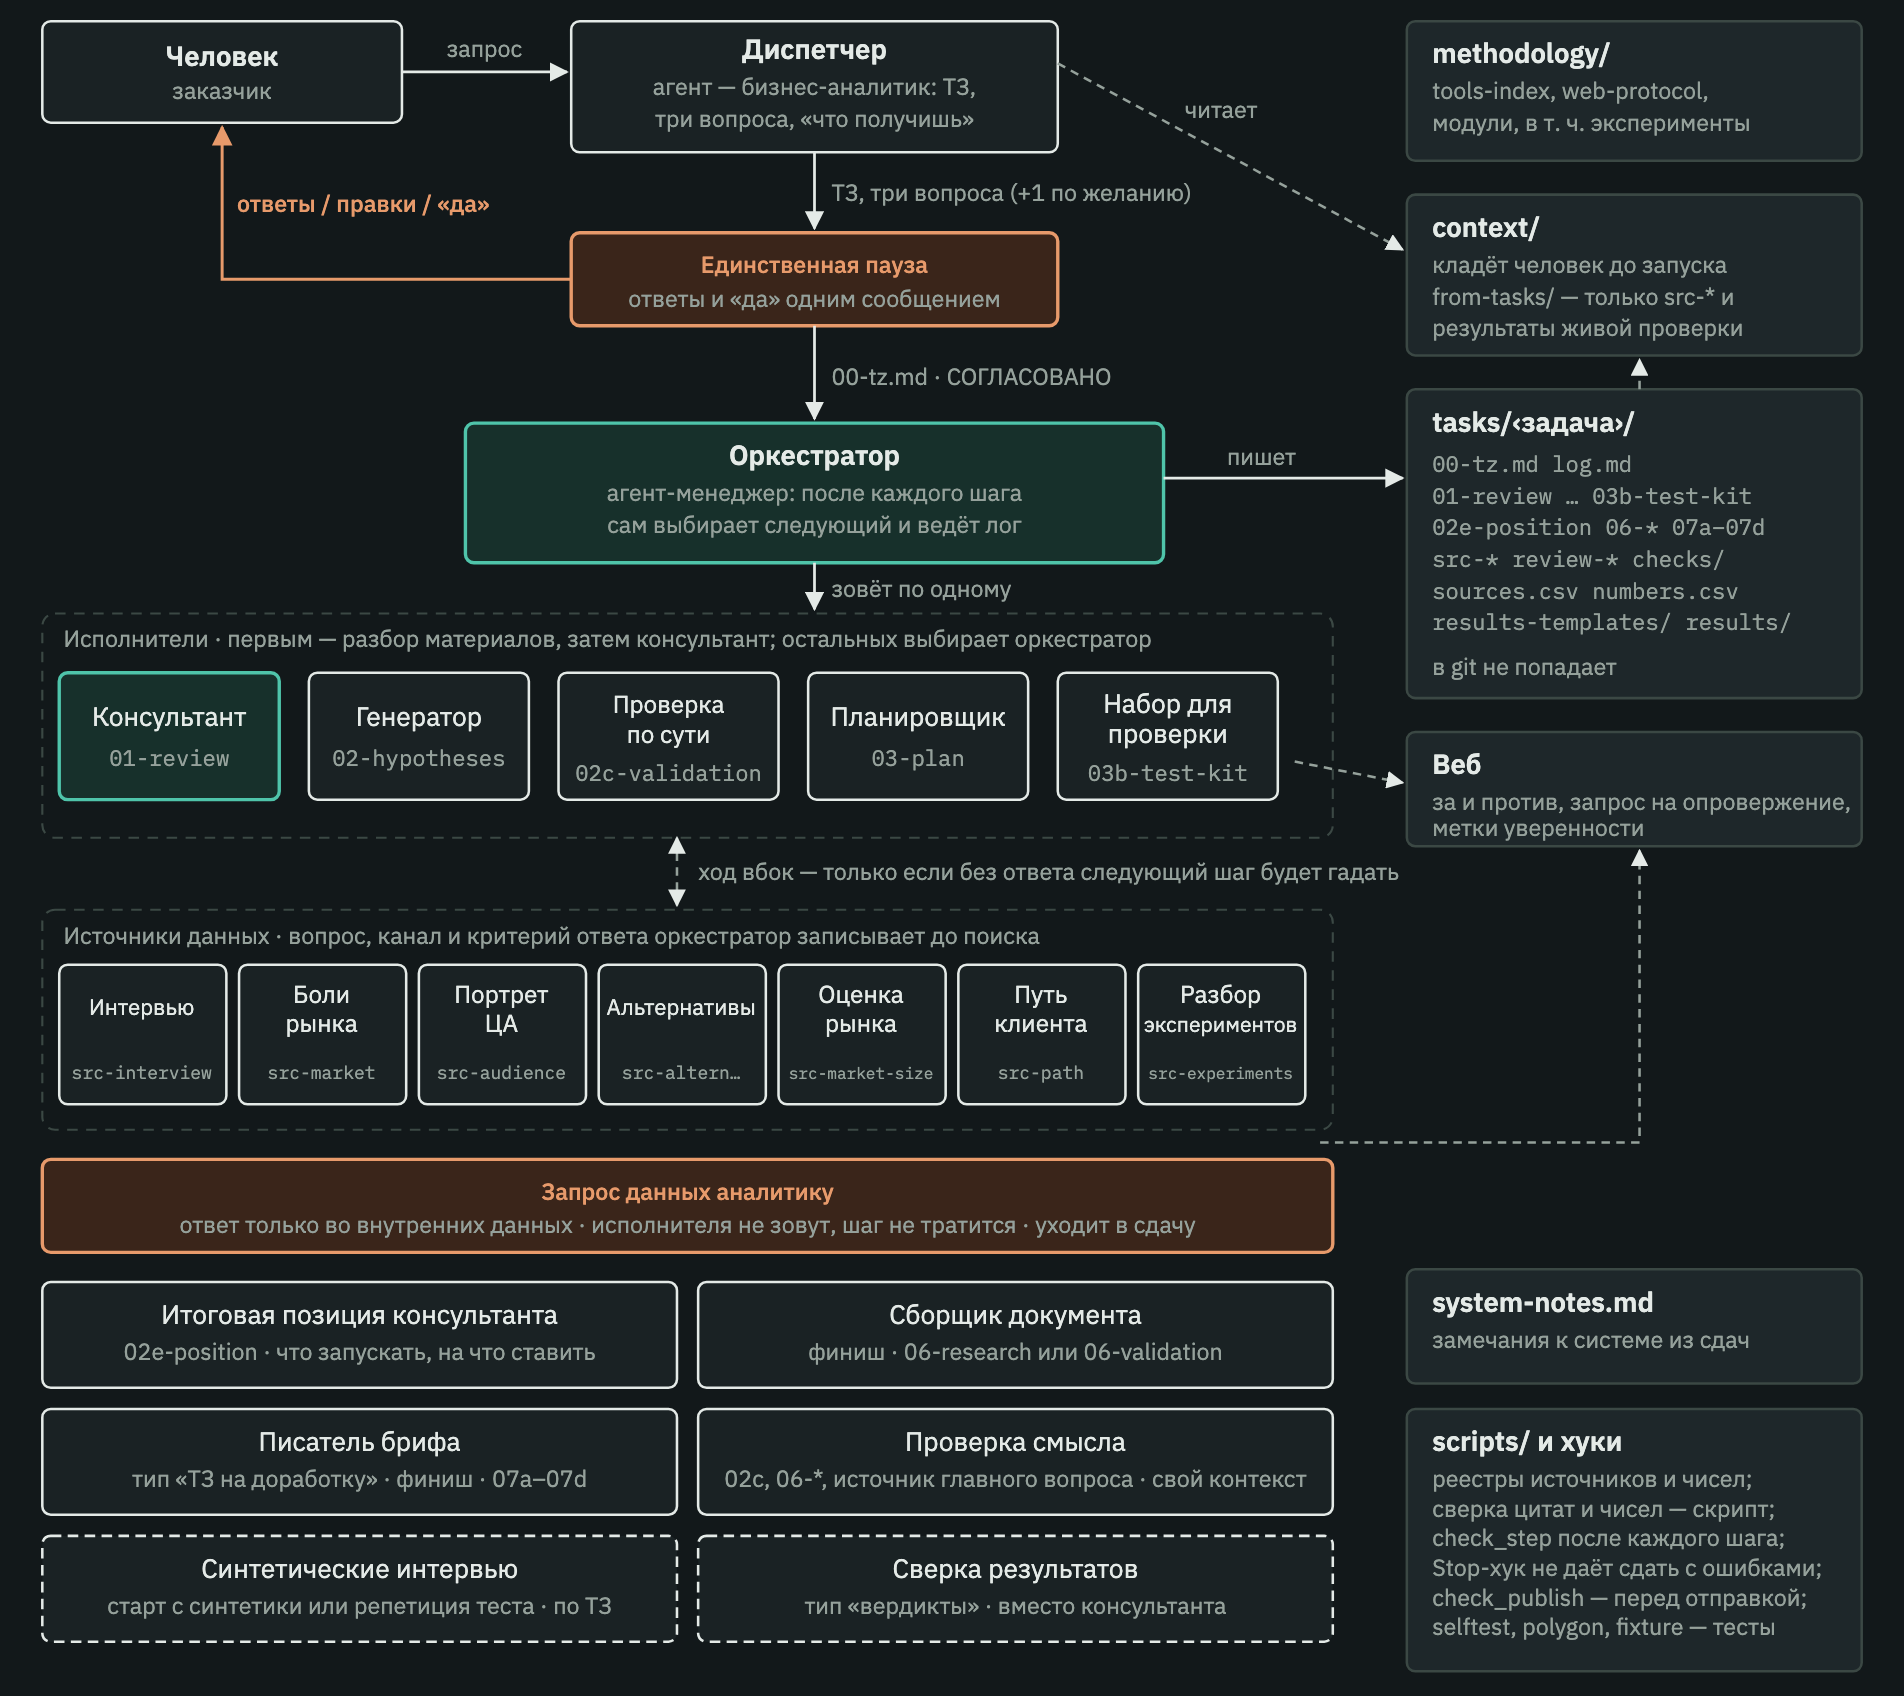
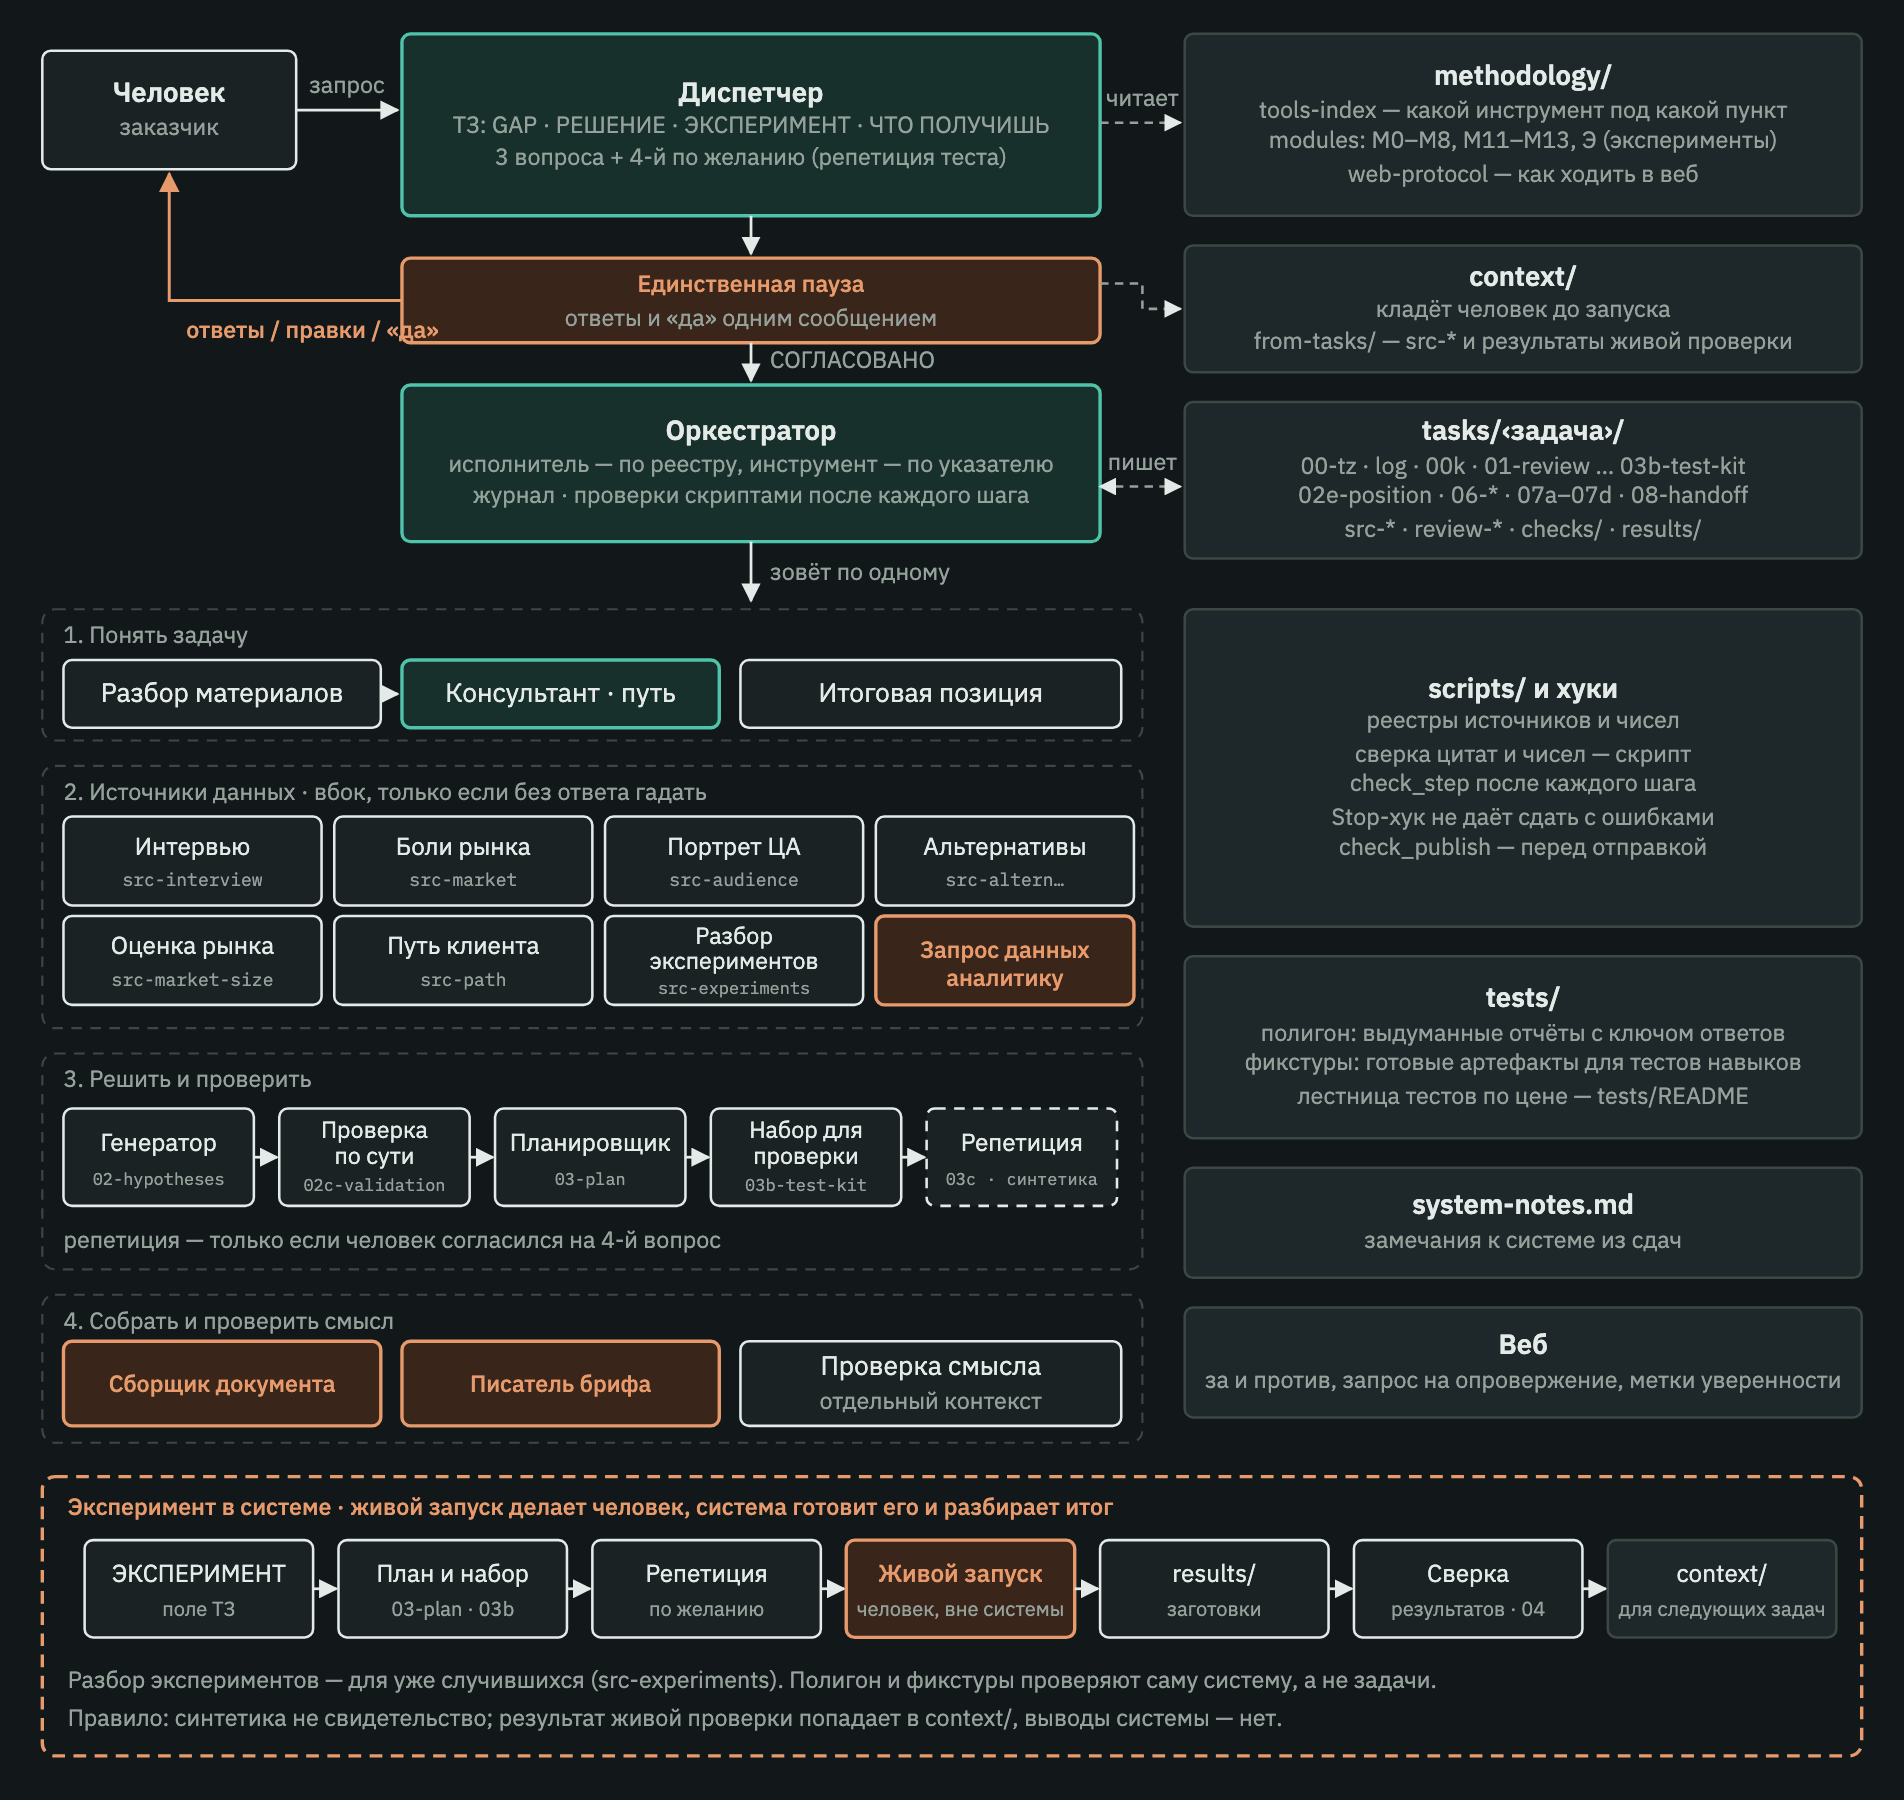
Схема ролей и маршрута перерисована: иерархия методология-оркестратор-исполнители и контур эксперимента
- группы исполнителей: понять задачу, источники данных (восемь), решить и проверить, собрать и проверить смысл
- методология выбирает инструмент под шаг через указатель; поле ТЗ «ЭКСПЕРИМЕНТ» и четвёртый вопрос диспетчера
- отдельная полоса «Эксперимент в системе»: план и набор, репетиция, живой запуск (человек), результаты, сверка, context
- хранилища: tests/ (полигон, фикстуры) рядом со scripts/ и хуками

Changed region(s): [[0.0, 0.0, 0.9916, 0.9688], [0.6197, 0.2812, 0.6507, 0.3125], [0.5888, 0.3125, 0.6197, 0.3438]]

diff --git a/docs/README.md b/docs/README.md
@@ -1,5 +1,5 @@
 # Схемы
 
-Три PNG в этой папке — схемы системы: роли, хранилища и маршрут; маршруты по семи типам выхода; пример прогона (валидация идеи). Тёмная тема, двойной масштаб, 1904 px в ширину. Исходника в репозитории нет: после изменений в системе схемы перерисовываются заново, а старые файлы заменяются.
+Три PNG в этой папке — схемы системы: роли, хранилища, маршрут и контур эксперимента; маршруты по семи типам выхода; пример прогона (валидация идеи). Тёмная тема, двойной масштаб, 1904 px в ширину. Исходника в репозитории нет: после изменений в системе схемы перерисовываются заново, а старые файлы заменяются.
 
 Актуальное описание системы — `AGENTS.md` в корне; контракты скиллов — `.claude/skills/orchestrator/registry.md`.

diff --git a/README.md b/README.md
@@ -16,7 +16,7 @@
 
 ## Архитектура
 
-![Роли, хранилища и маршрут](docs/architecture-1-roles.png)
+![Роли, хранилища, маршрут и контур эксперимента](docs/architecture-1-roles.png)
 
 ![Маршруты по типам выхода](docs/architecture-2-routes.png)
 
